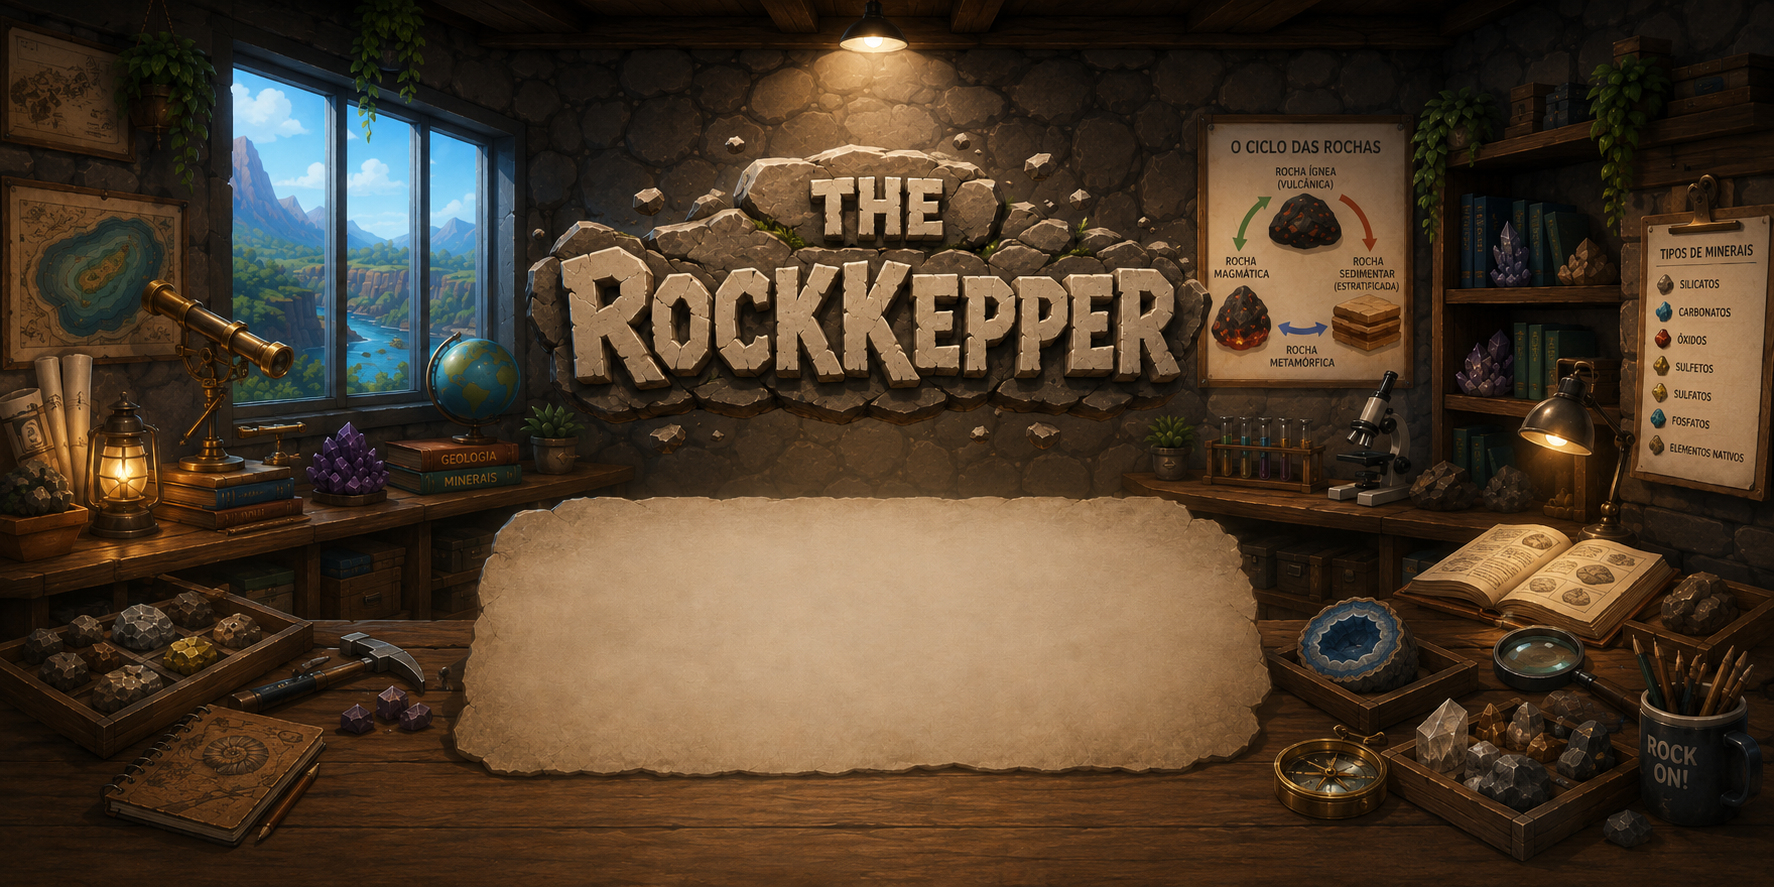
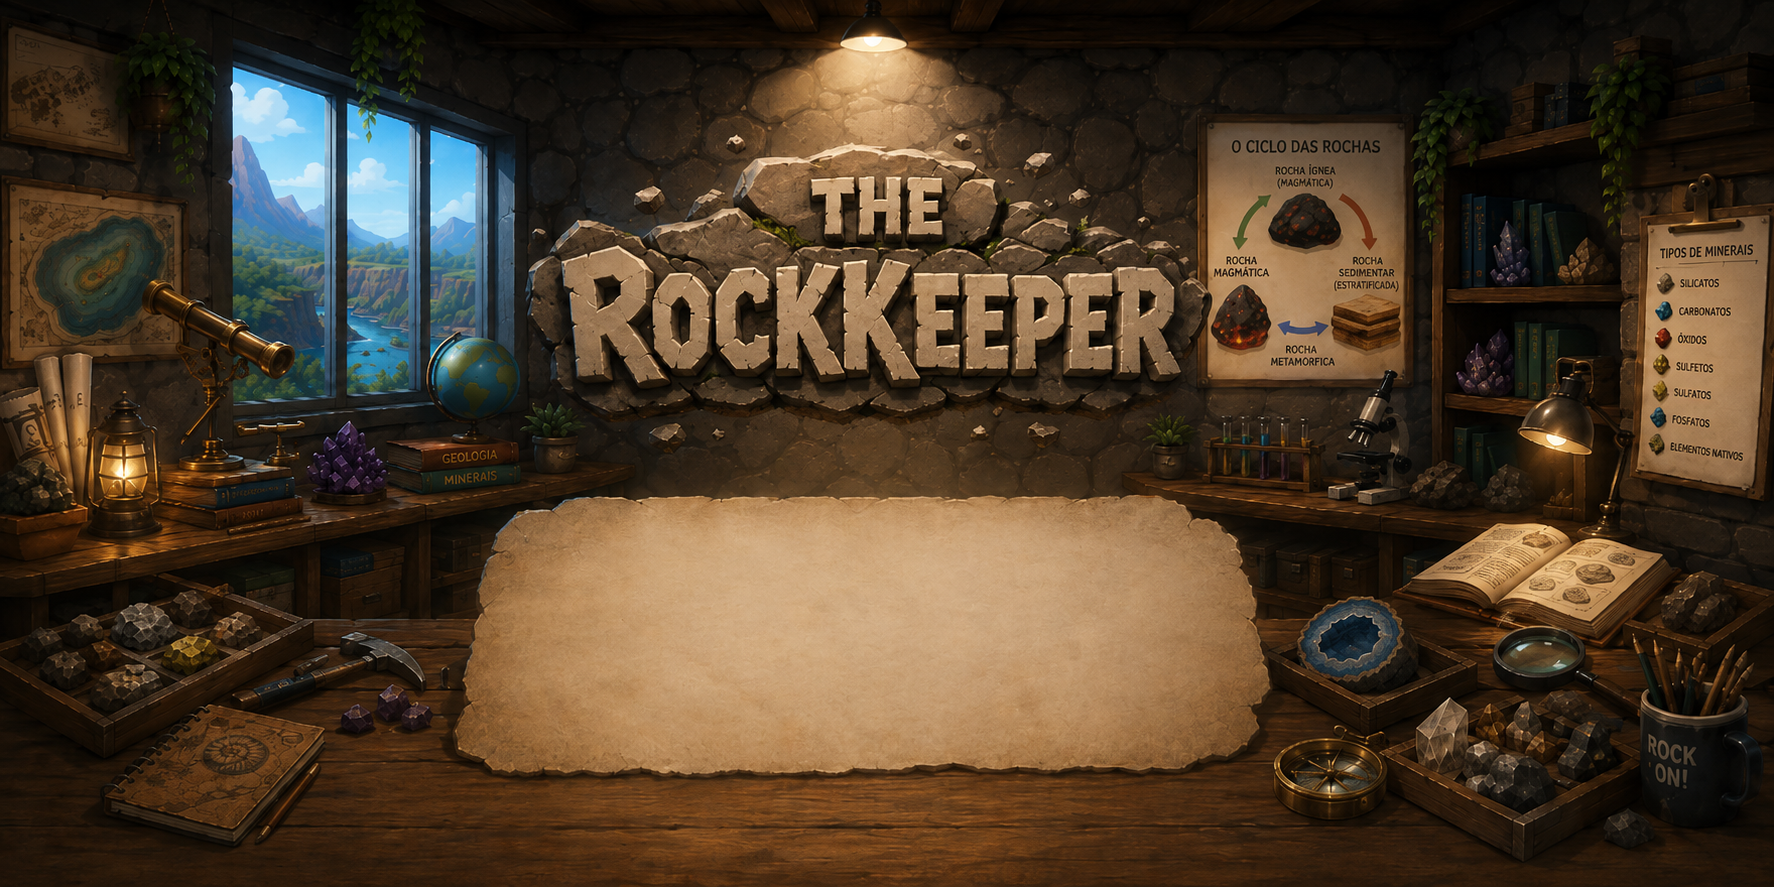
feat(volcano): replace Sophia placeholder with movement sprites

diff --git a/lib/components/player.dart b/lib/components/player.dart
@@ -1,7 +1,8 @@
 import 'dart:math' as math;
+import 'dart:ui' as ui;
+
 import 'package:flame/collisions.dart';
 import 'package:flame/components.dart';
-import 'package:flame/palette.dart';
 import 'package:flutter/services.dart';
 
 import '../game/rock_cycle_game.dart';
@@ -15,15 +16,18 @@ import '../models/game_state.dart';
 /// - Gravidade puxa Sophia para baixo; o chão invisível a segura em [groundY].
 /// - Colisões com [RockComponent] são delegadas ao jogo via [onPlayerCollided].
 ///
+/// Renderiza sprites de acordo com o estado:
+/// - `sophia_walking.png` no chão (com bobbing visual leve e inclinação)
+/// - `sophia_jumping.png` no ar
+///
 /// Fora da fase exploration o componente fica inerte (não se move).
-class Player extends RectangleComponent
+class Player extends PositionComponent
     with KeyboardHandler, HasGameReference<RockCycleGame>, CollisionCallbacks {
   // ═══════════════════════════════════════════════════════════════════
   //  CONSTANTES CONFIGURÁVEIS
   // ═══════════════════════════════════════════════════════════════════
 
   /// Velocidade horizontal automática da corrida (px/s).
-  /// Ajuste este valor para controlar a duração da fase.
   static const double autoRunSpeed = 120.0;
 
   /// Velocidade vertical inicial do pulo (negativo = para cima).
@@ -32,13 +36,51 @@ class Player extends RectangleComponent
   /// Aceleração gravitacional (px/s²).
   static const double gravity = 800.0;
 
-  /// Posição Y do chão — alinhar a "base" (pés) de Sophia à plataforma
-  /// principal do background vulcânico. Como o anchor é [Anchor.bottomCenter],
-  /// a position.y corresponde diretamente à linha do chão.
+  /// Posição Y do chão — pés da Sophia. Trocado dinamicamente pelo game.
   static double groundY = 500.0;
 
-  /// Limite direito da fase (quando atingido, a coleta termina).
+  /// Limite direito da fase.
   static double endX = 0;
+
+  // ═══════════════════════════════════════════════════════════════════
+  //  TAMANHO RESPONSIVO
+  // ═══════════════════════════════════════════════════════════════════
+
+  /// Compacto (mobile paisagem): mantém o tamanho atual.
+  static const double _compactHeightFactor = 0.24;
+  static const double _compactMinHeight = 80.0;
+  static const double _compactMaxHeight = 100.0;
+
+  /// Desktop / telas largas: ≈12% maior que o compacto.
+  static const double _desktopHeightFactor = 0.27;
+  static const double _desktopMinHeight = 90.0;
+  static const double _desktopMaxHeight = 160.0;
+
+  static const double _spriteAspect = 1024.0 / 1536.0;
+  static const double _compactWidthThreshold = 900.0;
+
+  // ═══════════════════════════════════════════════════════════════════
+  //  SPRITES
+  // ═══════════════════════════════════════════════════════════════════
+
+  static const String _walkingSpritePath =
+      'imgs/characters/mov_sophia/sophia_walking.png';
+  static const String _jumpingSpritePath =
+      'imgs/characters/mov_sophia/sophia_jumping.png';
+
+  Sprite? _walkingSprite;
+  Sprite? _jumpingSprite;
+  late final SpriteComponent _spriteVisual;
+  bool _spritesReady = false;
+
+  // ═══════════════════════════════════════════════════════════════════
+  //  BOBBING / TILT (visual apenas — sem impacto na física)
+  // ═══════════════════════════════════════════════════════════════════
+
+  double _bobTime = 0;
+  static const double _bobFrequency = 10.0;
+  static const double _bobAmplitude = 3.0;
+  static const double _tiltAngle = 0.07;
 
   // ═══════════════════════════════════════════════════════════════════
   //  ESTADO INTERNO
@@ -54,8 +96,7 @@ class Player extends RectangleComponent
 
   Player()
       : super(
-          size: Vector2.all(40),
-          paint: BasicPalette.blue.paint(),
+          size: Vector2(32, 48),
           anchor: Anchor.bottomCenter,
           priority: 10,
         );
@@ -66,7 +107,58 @@ class Player extends RectangleComponent
 
   @override
   Future<void> onLoad() async {
+    // Tamanho responsivo conforme canvas
+    _updateSizeFromGame();
+
+    // Carrega sprites (com fallback seguro)
+    try {
+      final results = await Future.wait([
+        Sprite.load(_walkingSpritePath),
+        Sprite.load(_jumpingSpritePath),
+      ]);
+      _walkingSprite = results[0];
+      _jumpingSprite = results[1];
+      _spritesReady = true;
+    } catch (_) {
+      _walkingSprite = Sprite(await _createFallbackImage());
+      _jumpingSprite = _walkingSprite;
+    }
+
+    _spriteVisual = SpriteComponent(
+      sprite: _walkingSprite,
+      size: size,
+      anchor: Anchor.bottomCenter,
+    );
+    add(_spriteVisual);
+
     add(RectangleHitbox());
+  }
+
+  void _updateSizeFromGame() {
+    final gs = game.size;
+    if (gs.x <= 0 || gs.y <= 0) return;
+
+    final isCompact = gs.x < _compactWidthThreshold && gs.x > gs.y;
+
+    final targetHeight = isCompact
+        ? (gs.y * _compactHeightFactor).clamp(_compactMinHeight, _compactMaxHeight)
+        : (gs.y * _desktopHeightFactor).clamp(_desktopMinHeight, _desktopMaxHeight);
+
+    size = Vector2(targetHeight * _spriteAspect, targetHeight);
+  }
+
+  Future<ui.Image> _createFallbackImage() async {
+    final recorder = ui.PictureRecorder();
+    final canvas = ui.Canvas(
+      recorder,
+      ui.Rect.fromLTWH(0, 0, size.x, size.y),
+    );
+    canvas.drawRect(
+      ui.Rect.fromLTWH(0, 0, size.x, size.y),
+      ui.Paint()..color = const ui.Color(0xFF4488FF),
+    );
+    final picture = recorder.endRecording();
+    return picture.toImage(size.x.toInt(), size.y.toInt());
   }
 
   @override
@@ -82,10 +174,7 @@ class Player extends RectangleComponent
   void update(double dt) {
     super.update(dt);
 
-    // Só se move durante a exploração
     if (game.gameState.phase != GamePhase.exploration) return;
-
-    // ── Já atingiu o fim da fase? ───────────────────────────────────
     if (_endReached) return;
 
     // ── Gravidade ──────────────────────────────────────────────────
@@ -96,7 +185,7 @@ class Player extends RectangleComponent
     // ── Corrida automática ─────────────────────────────────────────
     _velocity.x = autoRunSpeed;
 
-    // ── Aplica velocidade ──────────────────────────────────────────
+    // ── Aplica velocidade (física real) ────────────────────────────
     position += _velocity * dt;
 
     // ── Colisão com o chão ─────────────────────────────────────────
@@ -122,6 +211,31 @@ class Player extends RectangleComponent
         _endReached = true;
         game.onPlayerReachedEnd();
       }
+    }
+
+    // ── Visual: sprite + bobbing (só no child, não afeta hitbox) ──
+    _updateVisual(dt);
+  }
+
+  void _updateVisual(double dt) {
+    if (!_spritesReady) return;
+
+    if (_isOnGround) {
+      // Correndo no chão
+      if (_spriteVisual.sprite != _walkingSprite) {
+        _spriteVisual.sprite = _walkingSprite;
+      }
+      _bobTime += dt;
+      final bob = math.sin(_bobTime * _bobFrequency) * _bobAmplitude;
+      _spriteVisual.position.y = -bob;
+      _spriteVisual.angle = _tiltAngle;
+    } else {
+      // Pulando / no ar
+      if (_spriteVisual.sprite != _jumpingSprite) {
+        _spriteVisual.sprite = _jumpingSprite;
+      }
+      _spriteVisual.position.y = 0;
+      _spriteVisual.angle = 0;
     }
   }
 
@@ -159,9 +273,10 @@ class Player extends RectangleComponent
     _isOnGround = true;
     _endReached = false;
     endX = levelEndX;
+    _bobTime = 0;
   }
 
-  /// Para o jogador imediatamente (usado quando a coleta é concluída).
+  /// Para o jogador imediatamente.
   void stop() {
     _velocity.setValues(0, 0);
     _endReached = true;

diff --git a/lib/game/rock_cycle_game.dart b/lib/game/rock_cycle_game.dart
@@ -27,9 +27,16 @@ class RockCycleGame extends FlameGame
   //  de valores fixos, garantindo funcionamento em mobile paisagem.
   // ═══════════════════════════════════════════════════════════════════
 
-  /// Altura do chão — percentual do canvas.
-  /// Alinha a base (pés) de Sophia à plataforma principal do background.
+  /// Altura do chão para as rochas — percentual do canvas (fixo 0.78).
+  /// As rochas não devem ser rebaixadas junto com o player.
   double get runnerGroundY => size.y * 0.78;
+
+  /// Altura do chão para o player — mais baixa que [runnerGroundY] para
+  /// alinhar os pés da Sophia com a plataforma rochosa do background.
+  double get runnerPlayerGroundY {
+    final isCompact = size.x < 900 && size.x > size.y;
+    return isCompact ? size.y * 1.02 : size.y * 1.04;
+  }
 
   /// Posição horizontal inicial da Sophia.
   double get runnerPlayerStartX => size.x * 0.10;
@@ -102,19 +109,23 @@ class RockCycleGame extends FlameGame
 
   /// Recalcula posições do jogador e das rochas após redimensionamento.
   void _repositionAutoRunElements(Vector2 newSize) {
-    final gy = newSize.y * 0.78;
-    Player.groundY = gy;
+    // Player: usa groundY rebaixado para alinhar com a plataforma
+    final isCompact = newSize.x < 900 && newSize.x > newSize.y;
+    final gyPlayer = isCompact ? newSize.y * 1.02 : newSize.y * 1.04;
+    Player.groundY = gyPlayer;
     player.resetForAutoRun(
-      Vector2(newSize.x * 0.10, gy),
+      Vector2(newSize.x * 0.10, gyPlayer),
       newSize.x - 60,
     );
 
+    // Rochas: mantêm o groundY original (não rebaixado)
+    final gyRocks = newSize.y * 0.78;
     final rocks = children.query<RockComponent>();
     for (final rock in rocks) {
       if (rock.rockId == 'basalt') {
-        rock.position = Vector2(newSize.x * 0.35, gy);
+        rock.position = Vector2(newSize.x * 0.35, gyRocks);
       } else if (rock.rockId == 'obsidian') {
-        rock.position = Vector2(newSize.x * 0.65, gy - 80);
+        rock.position = Vector2(newSize.x * 0.65, gyRocks - 80);
       }
     }
   }
@@ -236,9 +247,9 @@ class RockCycleGame extends FlameGame
     _addBackground();
 
     _spawnAutoRunRocks();
-    Player.groundY = runnerGroundY;
+    Player.groundY = runnerPlayerGroundY;
     player.resetForAutoRun(
-      Vector2(runnerPlayerStartX, runnerGroundY),
+      Vector2(runnerPlayerStartX, runnerPlayerGroundY),
       runnerLevelEndX,
     );
   }